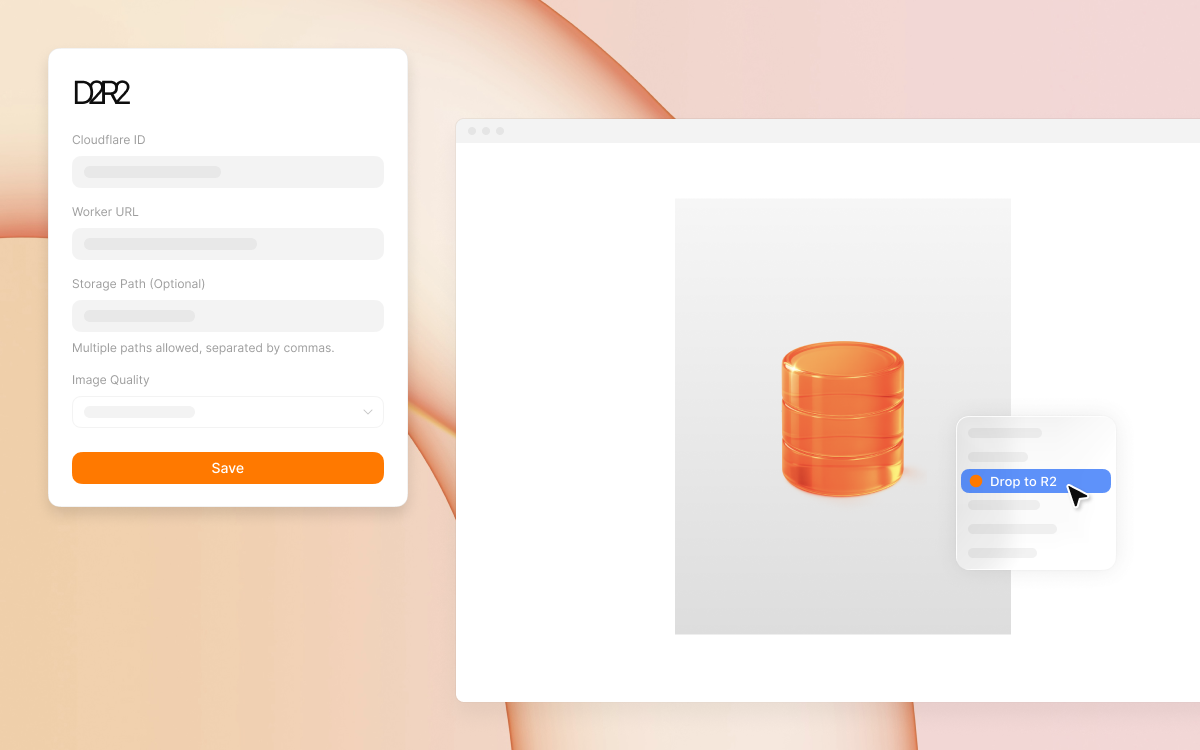
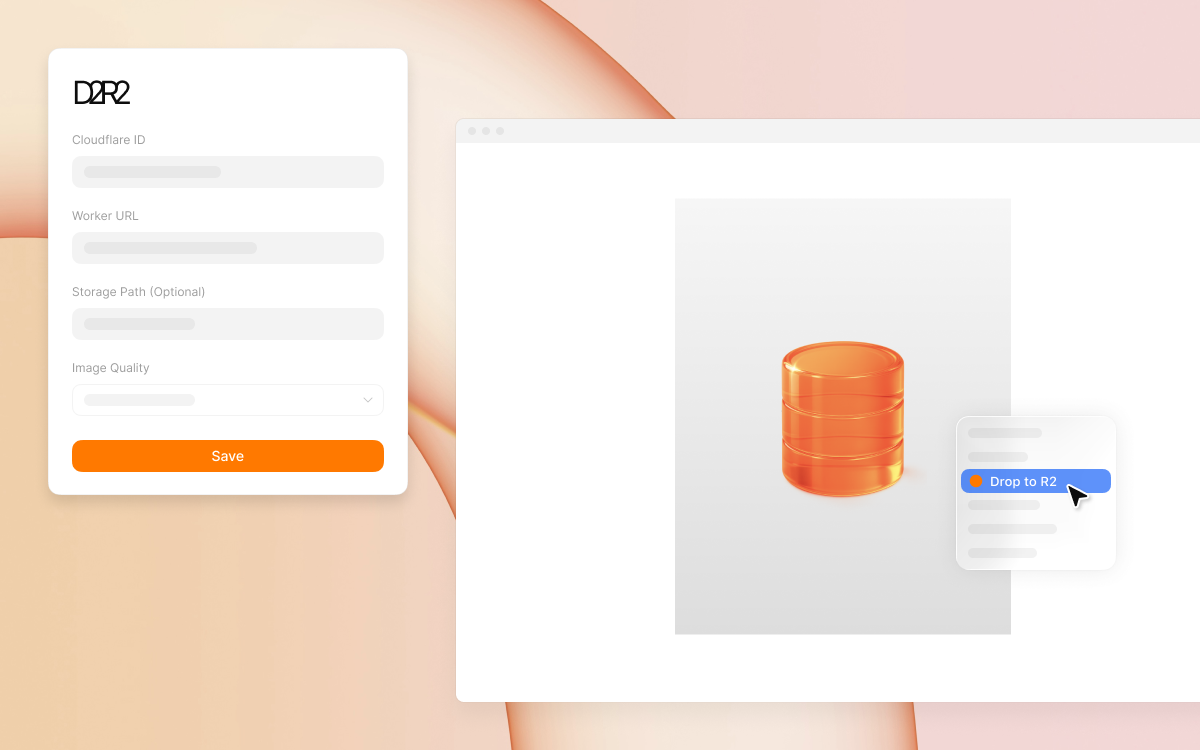
style: tweak margin

diff --git a/entrypoints/popup/style.css b/entrypoints/popup/style.css
@@ -186,7 +186,7 @@ body {
 }
 
 .form-group {
-  margin: 0 0 16px 0;
+  margin: 0 0 20px 0;
 }
 
 label {
